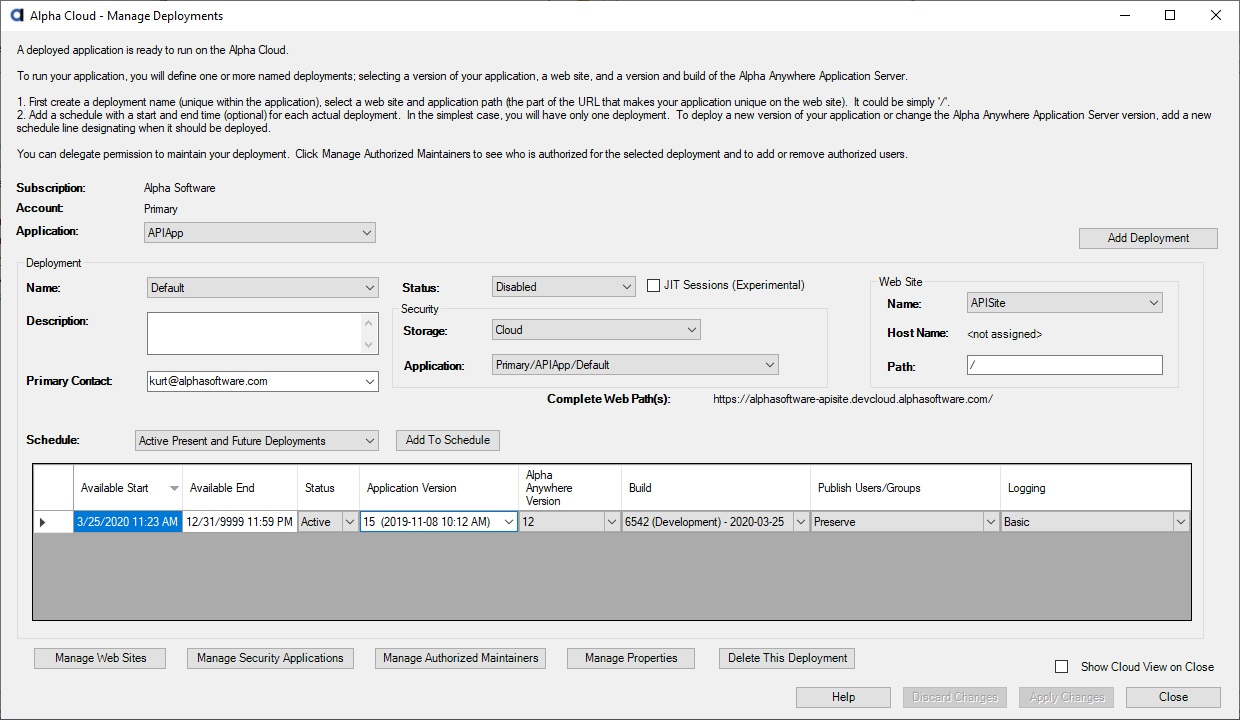
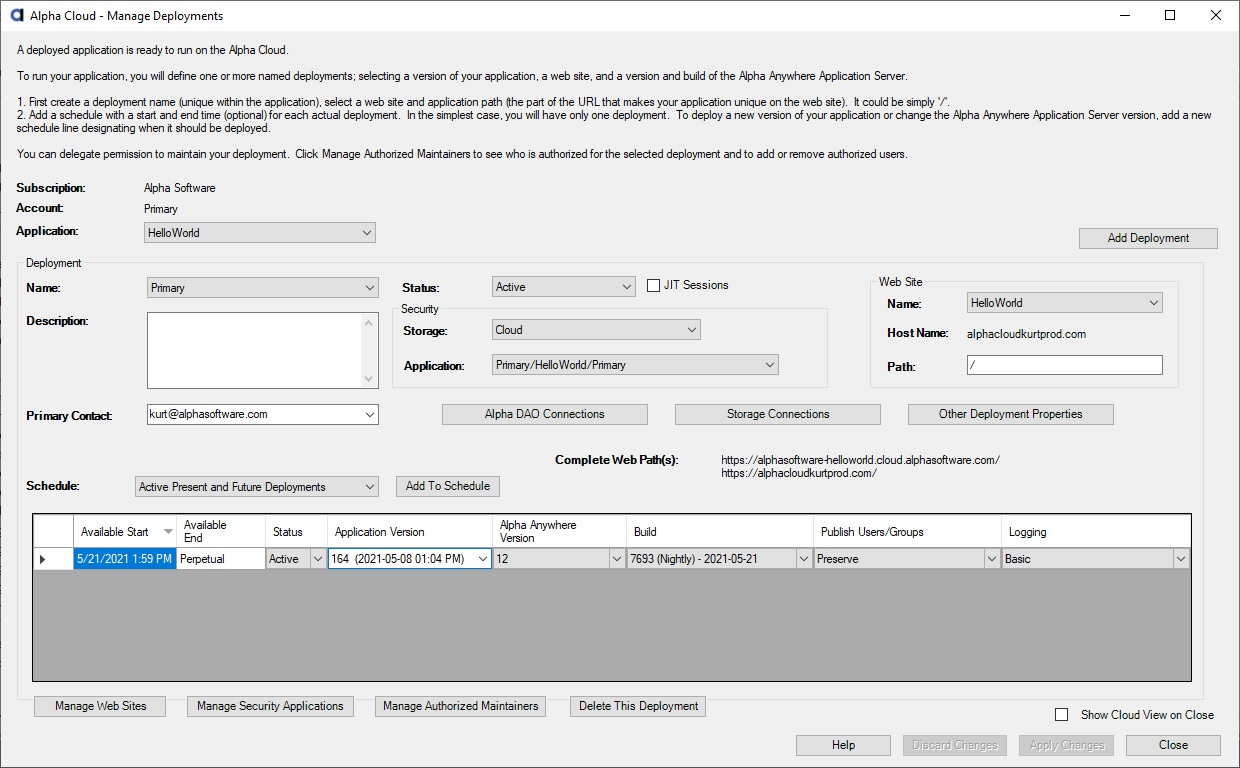
Update screen shots and text for connection string button changes on Manage Deployments dialog.

diff --git a/helpfiles/Guides/Alpha Cloud/Alpha Anywhere Developers Guide/Managing Deployments.html b/helpfiles/Guides/Alpha Cloud/Alpha Anywhere Developers Guide/Managing Deployments.html
@@ -268,7 +268,7 @@ These connection string values will always replace existing values in Alpha Clou
 <ol>
 	<li><p>Open the Manage Deployments Dialog as discussed above in <a href="#ManageDeployments">Viewing and Updating Deployments</a>.</p></li>
 	<li><p>Select the deployment you want to manage properties for.</p></li>
-	<li><p>Click on the button labeled "Manage Properties".</p></li>
+	<li><p>Click on the button labeled "Other Deployment Properties".</p></li>
 	<li><p>The Manage Deployment Properties dialog will display.</p>
 		<img border="0" src="ScreenShots/AlphaCloudManageDeploymentPropertiesConstant.jpg">
 		<br/><br/>
@@ -295,7 +295,7 @@ These connection string values will always replace existing values in Alpha Clou
 <ol>
 	<li><p>Open the Manage Deployments Dialog as discussed above in <a href="#ManageDeployments">Viewing and Updating Deployments</a>.</p></li>
 	<li><p>Select the deployment you want to manage properties for.</p></li>
-	<li><p>Click on the button labeled "Manage Properties".</p></li>
+	<li><p>Click on the button labeled "Other Deployment Properties".</p></li>
 	<li><p>The Manage Deployment Properties dialog will display.</p>
 		<img border="0" src="ScreenShots/AlphaCloudManageDeploymentPropertiesADO.jpg">
 		<br/><br/>
@@ -327,12 +327,12 @@ These connection string values will always replace existing values in Alpha Clou
 <ol>
 	<li><p>Open the Manage Deployments Dialog as discussed above in <a href="#ManageDeployments">Viewing and Updating Deployments</a>.</p></li>
 	<li><p>Select the deployment you want to manage properties for.</p></li>
-	<li><p>Click on the button labeled "Manage Properties".</p></li>
+	<li><p>Click on the button labeled "Alpha DAO Connections".</p></li>
 	<li><p>The Manage Deployment Properties dialog will display.</p>
 		<img border="0" src="ScreenShots/AlphaCloudManageDeploymentPropertiesAlphaDAO.jpg">
 		<br/><br/>
     		</li>
-	<li><p>Select "Alpha DAO Connection String" from the properties drop down.</p></li>
+	<li><p>The option entitled "Alpha DAO Connection String" will be selected in the properties drop down.</p></li>
 	<li><p>To add a connection string:</p>
 		<ul>
 			<li><p>Click the name field of the new row (the row that has a * to the left) and select the name you want to override from the list of application values.</p></li>
@@ -387,7 +387,7 @@ The total length of an IPV4 address is thirty-two bits.
 <ol>
 	<li><p>Open the Manage Deployments Dialog as discussed above in <a href="#ManageDeployments">Viewing and Updating Deployments</a>.</p></li>
 	<li><p>Select the deployment you want to manage properties for.</p></li>
-	<li><p>Click on the button labeled "Manage Properties".</p></li>
+	<li><p>Click on the button labeled "Other Deployment Properties".</p></li>
 	<li><p>The Manage Deployment Properties dialog will display.</p>
 		<img border="0" src="ScreenShots/AlphaCloudManageDeploymentPropertiesConstant.jpg">
 		<br/><br/>
@@ -435,12 +435,12 @@ The total length of an IPV4 address is thirty-two bits.
 <ol>
 	<li><p>Open the Manage Deployments Dialog as discussed above in <a href="#ManageDeployments">Viewing and Updating Deployments</a>.</p></li>
 	<li><p>Select the deployment you want to manage properties for.</p></li>
-	<li><p>Click on the button labeled "Manage Properties".</p></li>
+	<li><p>Click on the button labeled "Storage Connections".</p></li>
 	<li><p>The Manage Deployment Properties dialog will display.</p>
 		<img border="0" src="ScreenShots/AlphaCloudManageDeploymentPropertiesStorage.jpg">
 		<br/><br/>
     		</li>
-	<li><p>Select "Storage Connection String" from the properties drop down.</p></li>
+	<li><p>The "Storage Connection String" option will be selected in the properties drop down.</p></li>
 	<li><p>To add a connection string:</p>
 		<ul>
 			<li><p>Click the name field of the new row (the row that has a * to the left) and select the name you want to override from the list of application values.</p></li>
@@ -473,7 +473,7 @@ As a result you will see a delay in logs moving to log custom storage.</p>
 <ol>
 	<li><p>Open the Manage Deployments Dialog as discussed above in <a href="#ManageDeployments">Viewing and Updating Deployments</a>.</p></li>
 	<li><p>Select the deployment you want to manage properties for.</p></li>
-	<li><p>Click on the button labeled "Manage Properties".</p></li>
+	<li><p>Click on the button labeled "Other Deployment Properties".</p></li>
 	<li><p>The Manage Deployment Properties dialog will display.</p>
 		<img border="0" src="ScreenShots/AlphaCloudManageDeploymentPropertiesLogCustomStorage.jpg">
 		<br/><br/>
